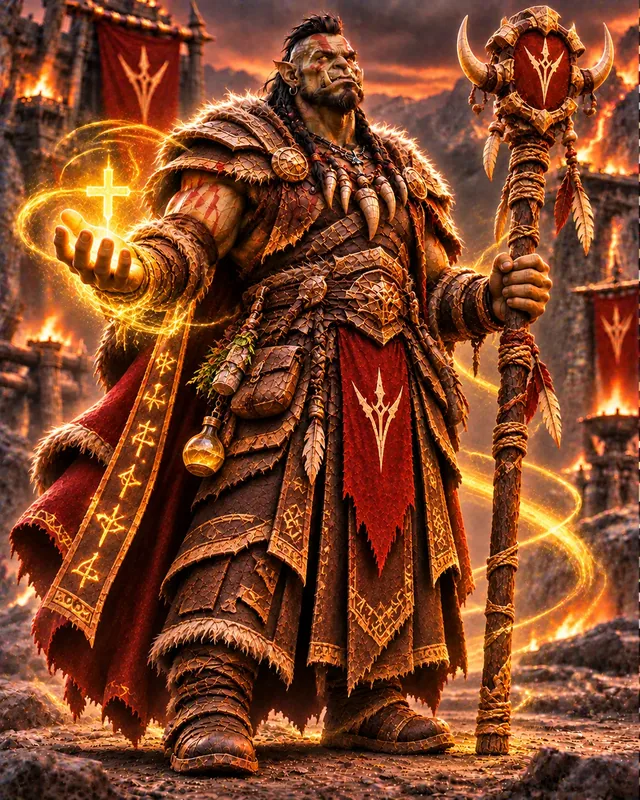
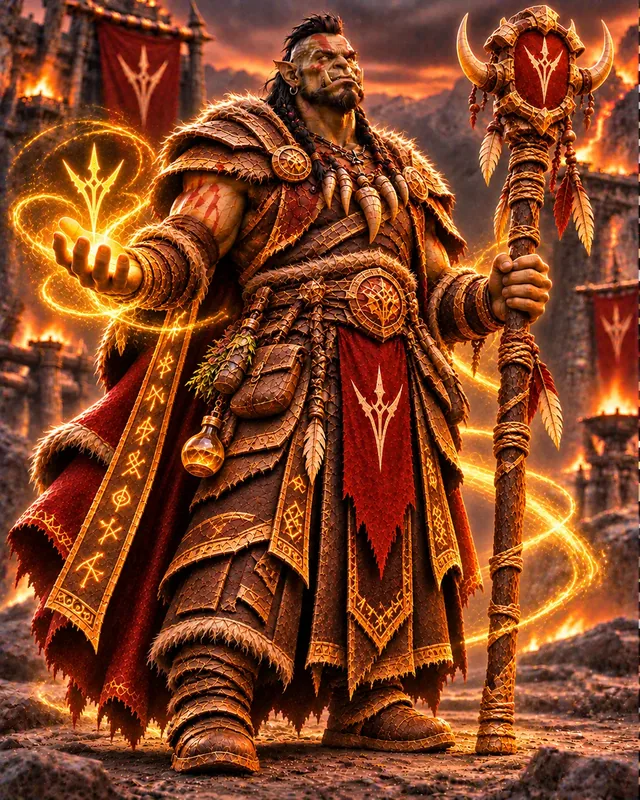
Be Your Hero: ilustrações completas do Orc Clérigo (forma 4 sem símbolo religioso)
Claude-Session: https://claude.ai/code/session_01LxsooUCbLW2SA9eBXasRYm

diff --git a/jornada/avatar.js b/jornada/avatar.js
@@ -78,7 +78,7 @@ const AV = (() => {
   const TIERS = MIN.map((min, i) => ({ min, n: CLASSES.guerreiro.tiers[i][0], d: CLASSES.guerreiro.tiers[i][1] }));
   const tierOf = lvl => { let t = 0; MIN.forEach((m, i) => { if (lvl >= m) t = i; }); return t; };
   /* Ilustrações prontas (raça-classe → formas disponíveis, 1 a 8). Sem arte, usa o desenho vetorial. */
-  const ART = { 'humano-guerreiro': [1, 2, 3, 4, 5, 6, 7, 8], 'humano-clerigo': [1, 2, 3, 4, 5, 6, 7, 8], 'humano-mago': [1, 2, 3, 4, 5, 6, 7, 8], 'humano-ladrao': [1, 2, 3, 4, 5, 6, 7, 8], 'humano-druida': [1, 2, 3, 4, 5, 6, 7, 8], 'gigante-guerreiro': [1, 2, 3, 4, 5, 6, 7, 8], 'gigante-clerigo': [1, 2, 3, 4, 5, 6, 7, 8], 'gigante-mago': [1, 2, 3, 4, 5, 6, 7, 8], 'gigante-ladrao': [1, 2, 3, 4, 5, 6, 7, 8], 'gigante-druida': [1, 2, 3, 4, 5, 6, 7, 8], 'goblin-guerreiro': [1, 2, 3, 4, 5, 6, 7, 8], 'goblin-clerigo': [1, 2, 3, 4, 5, 6, 7, 8], 'goblin-mago': [1, 2, 3, 4, 5, 6, 7, 8], 'goblin-ladrao': [1, 2, 3, 4, 5, 6, 7, 8], 'goblin-druida': [1, 2, 3, 4, 5, 6, 7, 8], 'elfo-guerreiro': [1, 2, 3, 4, 5, 6, 7, 8], 'elfo-clerigo': [1, 2, 3, 4, 5, 6, 7, 8], 'elfo-mago': [1, 2, 3, 4, 5, 6, 7, 8], 'elfo-ladrao': [1, 2, 3, 4, 5, 6, 7, 8], 'elfo-druida': [1, 2, 3, 4, 5, 6, 7, 8], 'orc-guerreiro': [1, 2, 3, 4, 5, 6, 7, 8], 'orc-clerigo': [1, 2, 3, 4, 5] };
+  const ART = { 'humano-guerreiro': [1, 2, 3, 4, 5, 6, 7, 8], 'humano-clerigo': [1, 2, 3, 4, 5, 6, 7, 8], 'humano-mago': [1, 2, 3, 4, 5, 6, 7, 8], 'humano-ladrao': [1, 2, 3, 4, 5, 6, 7, 8], 'humano-druida': [1, 2, 3, 4, 5, 6, 7, 8], 'gigante-guerreiro': [1, 2, 3, 4, 5, 6, 7, 8], 'gigante-clerigo': [1, 2, 3, 4, 5, 6, 7, 8], 'gigante-mago': [1, 2, 3, 4, 5, 6, 7, 8], 'gigante-ladrao': [1, 2, 3, 4, 5, 6, 7, 8], 'gigante-druida': [1, 2, 3, 4, 5, 6, 7, 8], 'goblin-guerreiro': [1, 2, 3, 4, 5, 6, 7, 8], 'goblin-clerigo': [1, 2, 3, 4, 5, 6, 7, 8], 'goblin-mago': [1, 2, 3, 4, 5, 6, 7, 8], 'goblin-ladrao': [1, 2, 3, 4, 5, 6, 7, 8], 'goblin-druida': [1, 2, 3, 4, 5, 6, 7, 8], 'elfo-guerreiro': [1, 2, 3, 4, 5, 6, 7, 8], 'elfo-clerigo': [1, 2, 3, 4, 5, 6, 7, 8], 'elfo-mago': [1, 2, 3, 4, 5, 6, 7, 8], 'elfo-ladrao': [1, 2, 3, 4, 5, 6, 7, 8], 'elfo-druida': [1, 2, 3, 4, 5, 6, 7, 8], 'orc-guerreiro': [1, 2, 3, 4, 5, 6, 7, 8], 'orc-clerigo': [1, 2, 3, 4, 5, 6, 7, 8] };
   const artOf = (race, cls, t) => { const k = (race || 'humano') + '-' + (cls || 'guerreiro'); return (ART[k] || []).includes(t + 1) ? `art/${k}-${t + 1}.webp` : null; };
   const tierInfo = (cls, i) => { const c = CLASSES[cls] || CLASSES.guerreiro; return { n: c.tiers[i][0], d: c.tiers[i][1], min: MIN[i] }; };
   const OL = '#0a0d17';
